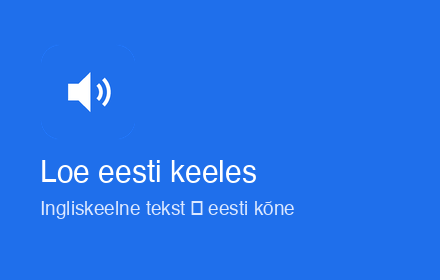
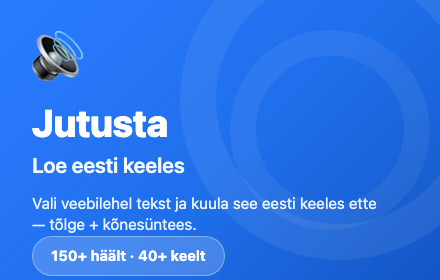
Uus promo-tile v1.1.x brändiga (440×280)
Asendab vana v1.0.0 tile'i. Sama sinine bränd, 150+ häält / 40+ keelt.
Lisatud taastatav allikas promo-tile-source.html.

Changed region(s): [[0.0591, 0.5429, 0.8568, 1.0], [0.0591, 0.1143, 0.3841, 0.5143], [0.7091, 0.5714, 1.0, 1.0]]

diff --git a/store-assets/promo-tile-source.html b/store-assets/promo-tile-source.html
@@ -1,0 +1,41 @@
+<!DOCTYPE html>
+<html lang="et">
+<head>
+<meta charset="utf-8" />
+<style>
+  * { margin: 0; padding: 0; box-sizing: border-box; }
+  html, body { width: 440px; height: 280px; overflow: hidden; }
+  body {
+    font: 16px/1.4 -apple-system, "Segoe UI", system-ui, sans-serif;
+    background: linear-gradient(135deg, #2b7bff 0%, #1f6feb 55%, #1456c4 100%);
+    color: #fff; position: relative;
+  }
+  /* dekoratiivsed helilained */
+  .wave { position: absolute; right: -60px; top: -60px; width: 320px; height: 320px;
+    border: 36px solid rgba(255,255,255,.07); border-radius: 50%; }
+  .wave2 { position: absolute; right: 10px; top: 30px; width: 200px; height: 200px;
+    border: 26px solid rgba(255,255,255,.06); border-radius: 50%; }
+
+  .wrap { position: relative; z-index: 2; height: 100%; padding: 30px 32px;
+    display: flex; flex-direction: column; }
+  .logo { font-size: 52px; line-height: 1; }
+  h1 { font-size: 38px; font-weight: 800; letter-spacing: -.5px; margin-top: 14px; }
+  h2 { font-size: 21px; font-weight: 600; opacity: .95; margin-top: 2px; }
+  p.tag { font-size: 15.5px; opacity: .9; margin-top: 12px; max-width: 360px; }
+  .badge { margin-top: auto; align-self: flex-start; background: rgba(255,255,255,.18);
+    border: 1px solid rgba(255,255,255,.34); border-radius: 999px;
+    padding: 9px 18px; font-size: 14.5px; font-weight: 700; }
+</style>
+</head>
+<body>
+  <div class="wave"></div>
+  <div class="wave2"></div>
+  <div class="wrap">
+    <div class="logo">🔊</div>
+    <h1>Jutusta</h1>
+    <h2>Loe eesti keeles</h2>
+    <p class="tag">Vali veebilehel tekst ja kuula see eesti keeles ette — tõlge + kõnesüntees.</p>
+    <div class="badge">150+ häält · 40+ keelt</div>
+  </div>
+</body>
+</html>